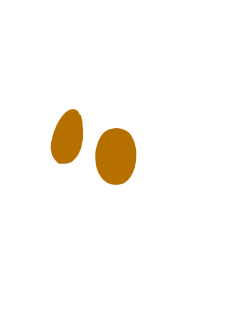
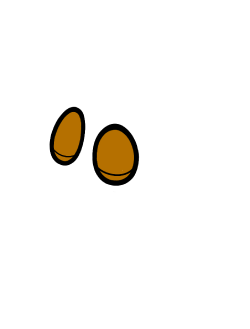
New monkeyFooter Animation

Changed region(s): [[0.196, 0.304, 0.56, 0.5775]]

diff --git a/src/components/Footer.vue b/src/components/Footer.vue
@@ -81,14 +81,29 @@ export default {
     // DefaultButton,
   },
   mounted() {
-    this.animateMonkey();
+    this.animateMonkeyEyes();
+    this.animateMonkeyHead();
   },
   methods: {
-    animateMonkey() {
+    animateMonkeyEyes() {
       const tl = gsap.timeline({ repeat: -1, yoyo: true });
-      tl.from(".eyes", 1, {
+      tl.from(".eyes", 0.6, {
         ease: "power1.inOut",
         opacity: 0,
+        rotation: -20,
+        x: 10,
+        transformOrigin: "50% 100%",
+        delay: 0.09,
+      });
+    },
+    animateMonkeyHead() {
+      const tl = gsap.timeline({ repeat: -1, yoyo: true });
+      tl.from(".head", 0.6, {
+        ease: "power1.inOut",
+        rotation: -20,
+        x: 10,
+        delay: 0.09,
+
         transformOrigin: "50% 100%",
       });
     },
